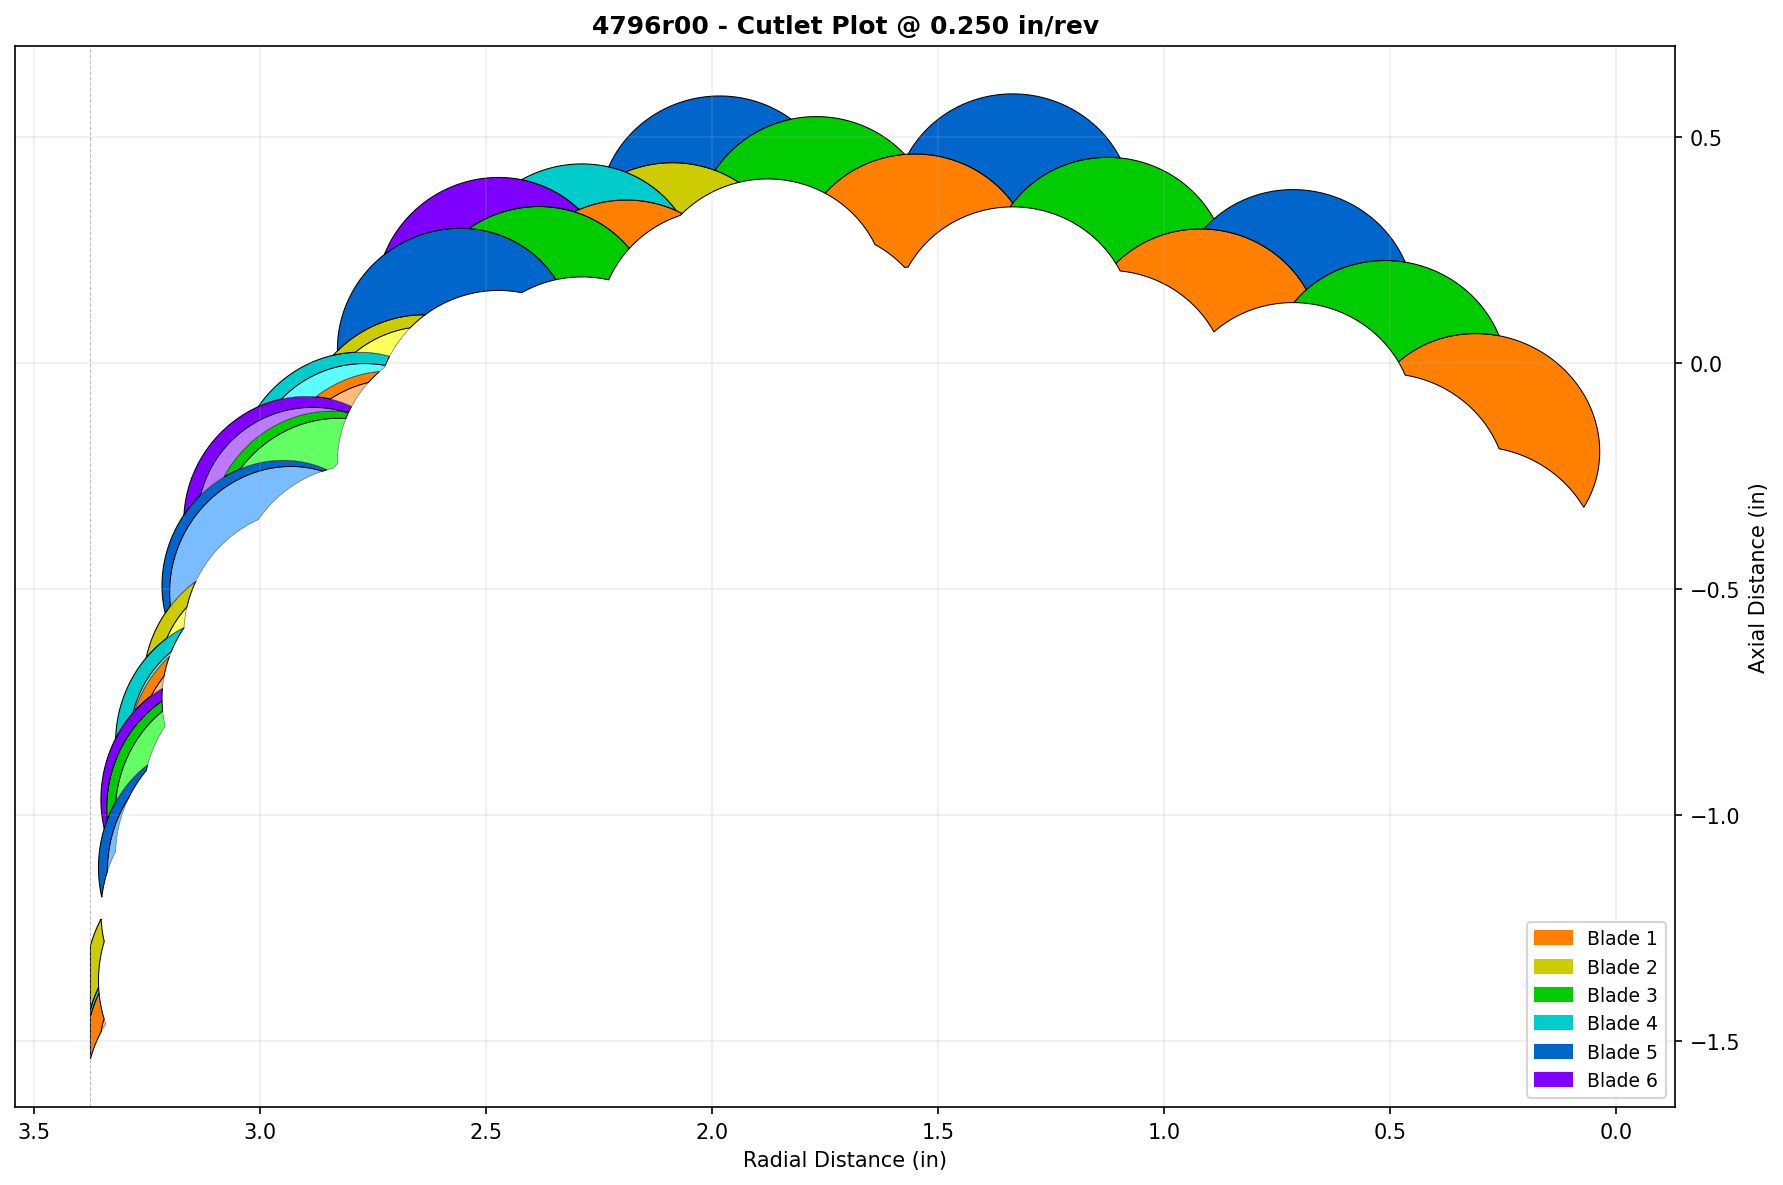
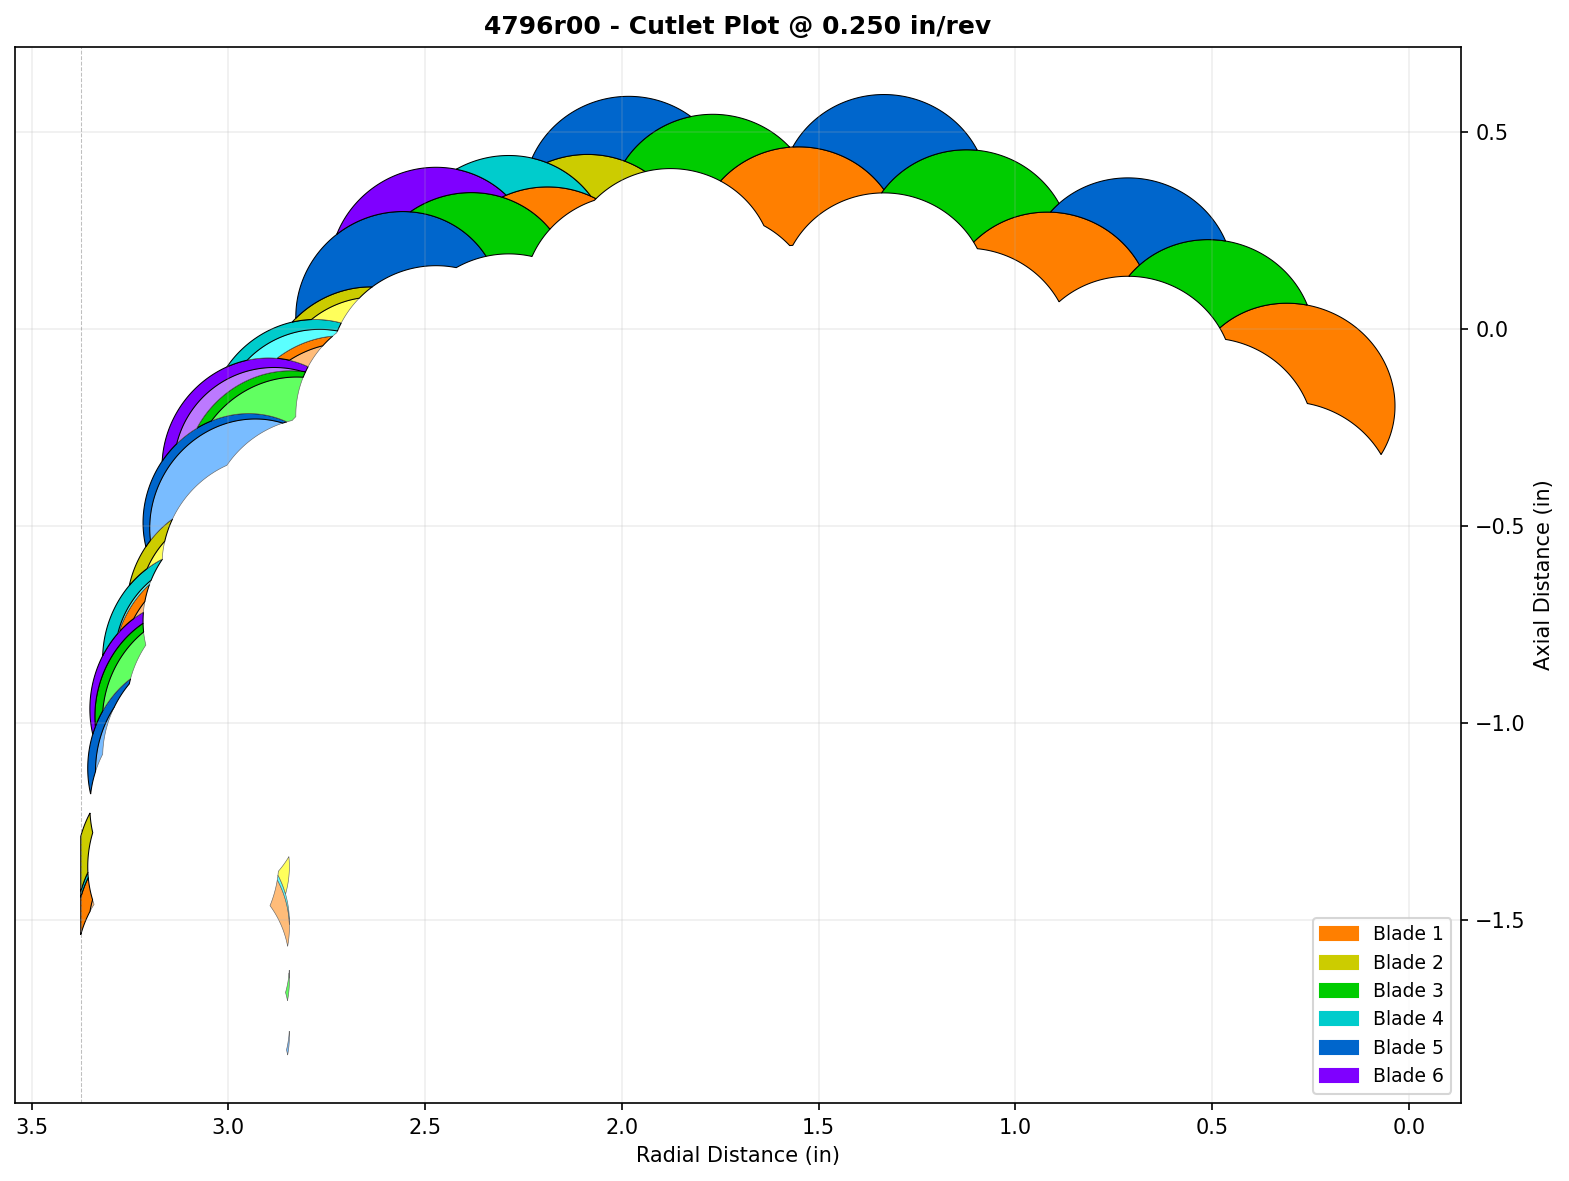
Add knuckle (CPS) detection and preserve knuckle cutlets in fragment filter
- Read element type from column K to identify knuckle (CPS) elements
- Pass knuckle names through to fragment filter so they are never removed
- Regenerate 4796r00 and 2195r1 plots with knuckle cutlets preserved

https://claude.ai/code/session_01N8TFjZHRi9fPjGEUiAzPPF

diff --git a/skills/bb2_cuttlet_plots.py b/skills/bb2_cuttlet_plots.py
@@ -64,7 +64,7 @@ def get_row_from_name(name):
     return 1
 
 
-def _filter_non_cutting_fragments(cutlet_polys, ipr):
+def _filter_non_cutting_fragments(cutlet_polys, ipr, knuckle_names=None):
     """
     Remove cutlet fragments that don't represent real material removal.
 
@@ -72,10 +72,14 @@ def _filter_non_cutting_fragments(cutlet_polys, ipr):
     any lower-indexed ellipse, creating tiny isolated fragments far below
     the main cutting profile. These fragments aren't actually cutting new rock.
 
+    Knuckle (CPS) cutlets are NEVER filtered — they are real cutting elements.
+
     Approach: build the cutting profile from the substantial cutlets, then
     discard any fragment whose centroid Z is more than 3x IPR below the
     local profile.
     """
+    if knuckle_names is None:
+        knuckle_names = set()
     from collections import defaultdict
     from shapely.ops import unary_union
 
@@ -106,6 +110,11 @@ def _filter_non_cutting_fragments(cutlet_polys, ipr):
     removed = []
 
     for name, poly, cx, cy, area in pieces:
+        # Never filter knuckle cutlets — they are real cutting elements
+        if name in knuckle_names:
+            kept.append((name, poly))
+            continue
+
         # Find 5 nearest profile pieces by radial distance
         neighbors = sorted(profile_pieces, key=lambda p: abs(cx - p[2]))[:5]
         neighbor_zs = sorted([p[3] for p in neighbors])
@@ -181,10 +190,13 @@ def _filter_non_drilling_cutters(cutters):
 def build_cutlet_polygons(cutters, ipr, gage_radius):
     """Build ellipses, perform subtraction, return list of (name, cutlet_polygon) pairs.
 
-    Back-reamers and wear pad elements are excluded before computation —
+    Back-reamers are excluded before computation —
     they don't remove material during drilling.
+    Knuckles (CPS elements) ARE included as cutting elements.
     """
     cutters = _filter_non_drilling_cutters(cutters)
+    # Track which cutter names are knuckles so the fragment filter preserves them
+    knuckle_names = {c['name'] for c in cutters if c.get('is_knuckle')}
     N = len(cutters)
     all_ellipses = []
 
@@ -240,8 +252,8 @@ def build_cutlet_polygons(cutters, ipr, gage_radius):
 
         cutlet_polys.append((all_ellipses[idx]['name'], cutlet))
 
-    # Remove non-cutting artifact fragments
-    cutlet_polys = _filter_non_cutting_fragments(cutlet_polys, ipr)
+    # Remove non-cutting artifact fragments (but never remove knuckle cutlets)
+    cutlet_polys = _filter_non_cutting_fragments(cutlet_polys, ipr, knuckle_names)
 
     return cutlet_polys
 

diff --git a/cutlet_engine.py b/cutlet_engine.py
@@ -112,6 +112,11 @@ def read_cutter_data_from_me(filepath):
         rake = ws.cell(row=row, column=col_idx(rake_col)).value
         zpolar = ws.cell(row=row, column=col_idx(zpolar_col)).value
 
+        # Read element type from column K to identify knuckles (CPS elements)
+        element = ws.cell(row=row, column=col_idx('K')).value
+        element_str = str(element).upper() if element else ''
+        is_knuckle = 'CPS' in element_str
+
         if radial is None or major is None:
             break
 
@@ -124,6 +129,7 @@ def read_cutter_data_from_me(filepath):
             'tilt': float(tilt) if tilt is not None else 0.0,
             'rake': float(rake) if rake is not None else 0.0,
             'zpolar': float(zpolar) if zpolar is not None else 0.0,
+            'is_knuckle': is_knuckle,
         })
         row += 1
 
